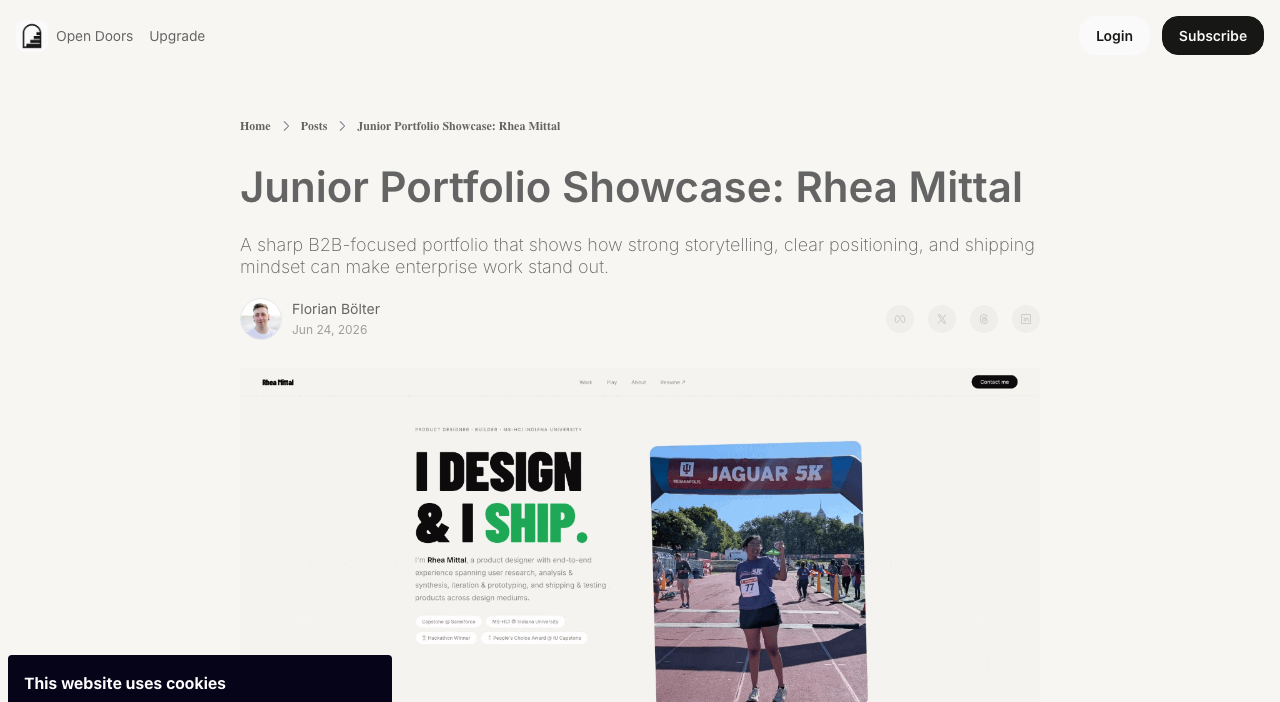
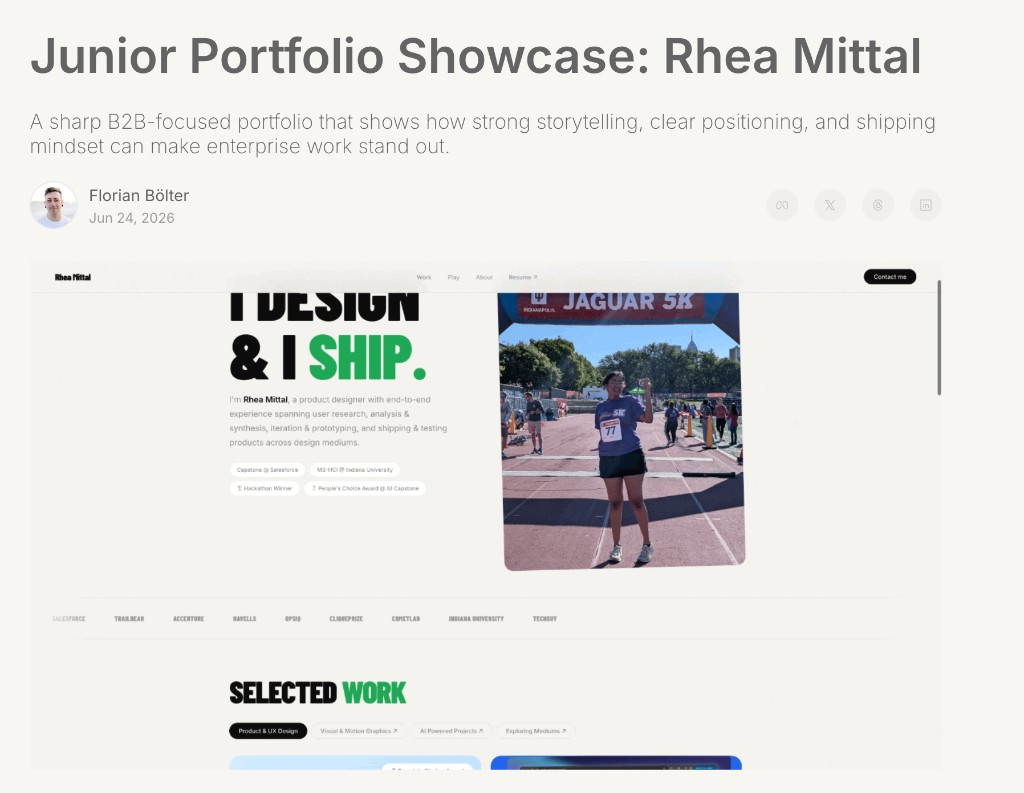
Use the Open Doors article screenshot for hover and lightbox.
Keep the logo as the default tile, and show Florian Bölter’s Junior Portfolio Showcase (no cookie banner) on hover and in the lightbox.

diff --git a/about.html b/about.html
@@ -907,15 +907,15 @@ body {
 
       <!-- Card 1: Open Doors -->
       <div class="col-item" onclick="openColLb(this)" style="cursor:pointer;"
-        data-img="assets/About Me/Thingspart of./Open Doors logo.png"
-        data-fit="logo"
+        data-img="assets/About Me/Thingspart of./Open Doors — Junior Portfolio Showcase.png"
         data-tag="Newsletter Feature"
         data-title="Open Doors, Junior Portfolio Showcase"
         data-body="I was featured on the Open Doors newsletter Junior Portfolio Showcase, a write-up of my B2B-focused portfolio and how I present work I have shipped."
         data-link="https://blog.opendoorscareers.com/p/junior-portfolio-showcase-rhea-mittal"
         data-link-label="Read the feature">
-        <div class="col-img-wrap is-logo">
+        <div class="col-img-wrap is-logo has-photo">
           <img class="col-img" src="assets/About Me/Thingspart of./Open Doors logo.png" alt="Open Doors logo">
+          <img class="col-img-photo" src="assets/About Me/Thingspart of./Open Doors — Junior Portfolio Showcase.png" alt="" aria-hidden="true">
           <div class="col-overlay">
             <div class="col-ov-tag">Newsletter Feature</div>
             <div class="col-ov-title">Open Doors, Junior Portfolio Showcase</div>

diff --git a/README.md b/README.md
@@ -9,6 +9,12 @@ Personal portfolio site for product designer Rhea Mittal (MS-HCI, Indiana Univer
 
 Document notable changes with every GitHub commit. Newest first.
 
+### 2026-09-07 — Open Doors hover + lightbox screenshot
+
+- About **Communities & Milestones** Open Doors card stays the logo by default.
+- Hover and lightbox now use `assets/About Me/Thingspart of./Open Doors — Junior Portfolio Showcase.png` — Florian Bölter’s Junior Portfolio Showcase article (no cookie banner).
+- Same logo-then-photo pattern as SIGCHI, SETH Lab, and the other milestone cards.
+
 ### 2026-09-07 — About milestone logos, hover photos, SETH blue
 
 - About **Communities & Milestones** tiles show logos by default. Hover fades in the original working/contributing photo; the lightbox opens that same photo.
